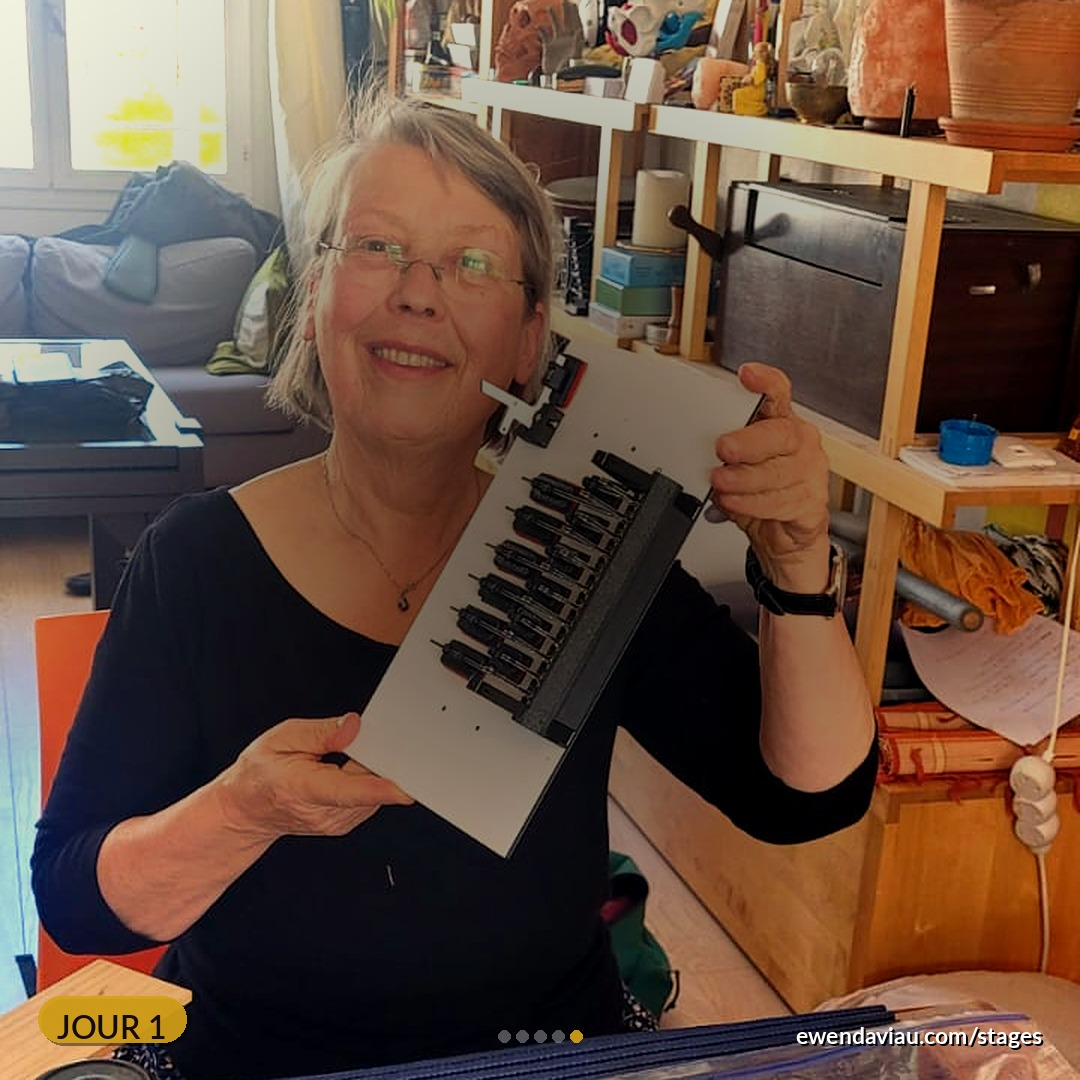
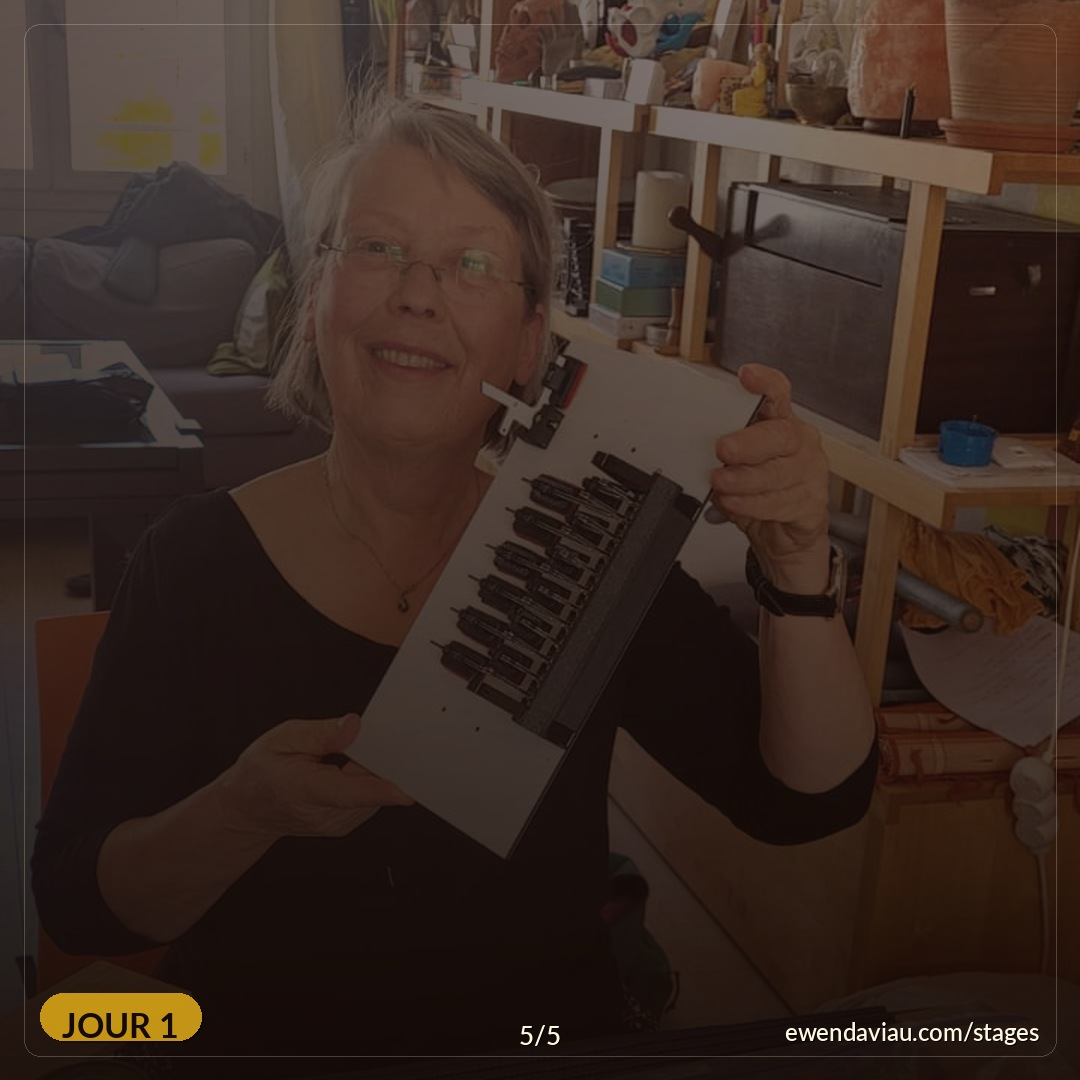
feat: 4 cartes principales + 15 carrousels design naturel aligné HTML, fix photo jour1
Agent-Logs-Url: https://github.com/labodezao/stages-lutherie/sessions/f097f611-6acc-4b5e-ab7d-af52abc95e67

diff --git a/comm/stages/publications-jours-1-2-3-cta-2026.html b/comm/stages/publications-jours-1-2-3-cta-2026.html
@@ -304,7 +304,7 @@
 
     <!-- ═══════════════ JOUR 1 ═══════════════ -->
     <section class="entry">
-      <div class="post-card" style="background-image:url('stage%20avril%202026/jour1/WhatsApp%20Image%202026-04-09%20at%2012.37.04.jpeg')">
+      <div class="post-card" style="background-image:url('stage%20avril%202026/jour1/WhatsApp%20Image%202026-04-09%20at%2021.18.17%20%281%29.jpeg')">
         <div class="card-content">
           <div>
             <div class="eyebrow">Jour 1 · en direct</div>
